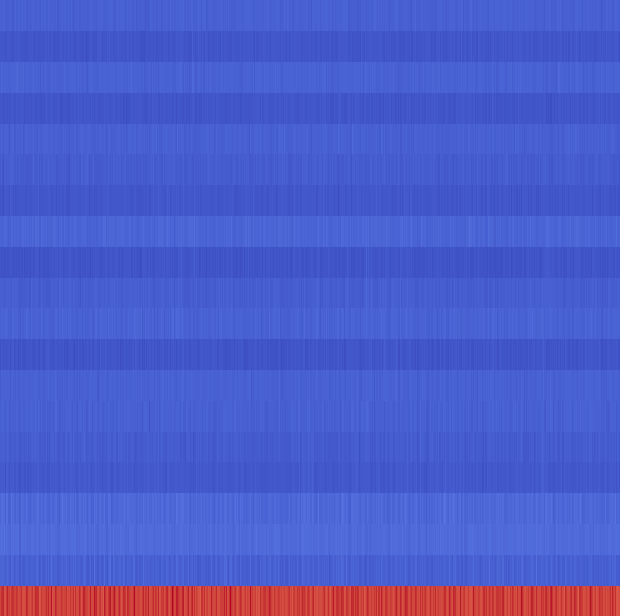
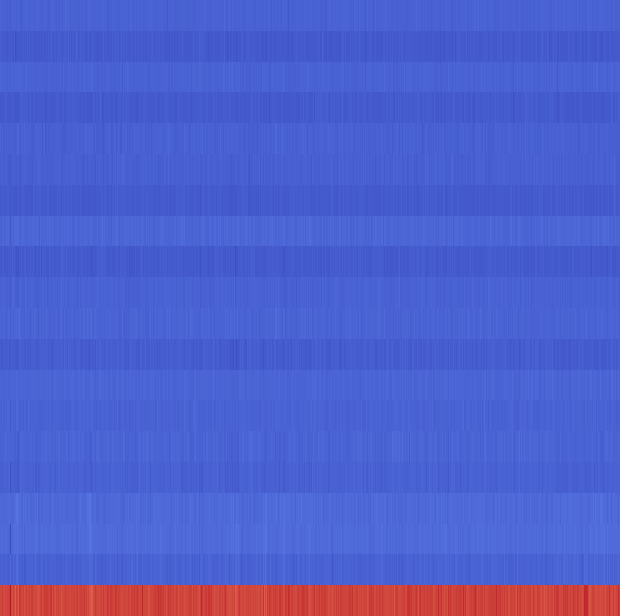
UPDATE: update wonder model to output image, ran Integration_test.py

diff --git a/Models.py b/Models.py
@@ -24,7 +24,7 @@ class ModelInstance:
 
         actor = Actor(self.action_space)
         critic = Critic(self.action_space)
-        wonder = Wonder(self.action_space)
+        wonder = Wonder(self.eyes_input_shape, self.ears_input_shape, self.action_space)
 
         actor.compile(optimizer=Adam(learning_rate=self.learning_rate, epsilon=1e-5))
         critic.compile(optimizer=Adam(learning_rate=self.learning_rate, epsilon=1e-5))
@@ -41,10 +41,10 @@ class ModelInstance:
 
         state = (np.array([eyes_time_sequence_observation]), np.array([ears_time_sequence_observation]))
 
-        action = actor(state)
+        dist = actor(state)
+        action = dist.sample()
         critic(state)
-        wonder_state = (state, action)
-        wonder(wonder_state)
+        wonder(state, action)
 
         return actor, critic, wonder
 
@@ -82,7 +82,6 @@ class Actor(keras.Model):
         self.actor_ear_conv.add(layers.TimeDistributed(layers.Conv2D(64, 5, activation="relu", padding="same")))
         self.actor_ear_conv.add(layers.TimeDistributed(layers.MaxPooling2D(pool_size=2, padding="same")))
         self.actor_ear_conv.add(layers.TimeDistributed(layers.Flatten()))
-        self.actor.add(layers.Dense(action_space, activation="tanh"))
 
         # LSTM
         self.actor_lstm1 = layers.LSTM(2, return_sequences=True)
@@ -164,6 +163,8 @@ class Critic(keras.Model):
 class Wonder(keras.Model):
     def __init__(self, eyes_input_shape, ears_input_shape, action_space):
         super(Wonder, self).__init__()
+        self.eyes_input_shape = eyes_input_shape
+        self.ears_input_shape = ears_input_shape
 
         # CONVOLUTION LAYERS
         self.wonder_eye_conv = keras.Sequential()
@@ -185,24 +186,34 @@ class Wonder(keras.Model):
         self.wonder_lstm2 = layers.LSTM(10, return_sequences=False)
 
         # DENSE
-        self.value_dense = keras.Sequential()
-        self.value_dense.add(layers.Dense(64, activation='relu'))
-        self.value_dense.add(layers.Dense(64, activation='relu'))
+        self.wonder_dense = keras.Sequential()
+        self.wonder_dense.add(layers.Dense(64, activation='relu'))
+        self.wonder_dense.add(layers.Dense(64, activation='relu'))
 
         # OUTPUT
-        self.value_output = layers.Dense(1)
+        number_of_eye_neurons = np.prod(list(eyes_input_shape))
+        number_of_ear_neurons = np.prod(list(ears_input_shape))
+        self.wonder_eyes_output = layers.Dense(number_of_eye_neurons, activation='relu')
+        self.wonder_ears_output = layers.Dense(number_of_ear_neurons, activation='relu')
 
     def __call__(self, observation, action):
+        def convert_output_to_image(arr, shape):
+            arr = np.interp(arr, (0, 1), (0, 255))
+            arr = arr.astype('uint8')
+            arr = arr.reshape(shape)
+            return arr
+
         eye_input = np.array(observation[0], dtype=np.float32)
         ear_input = np.array(observation[1], dtype=np.float32)
         action = np.array(action, dtype=np.float32)
 
         wonder_eye_conv, wonder_ear_conv = self.wonder_eye_conv(eye_input), self.wonder_ear_conv(ear_input)
         wonder_merged = layers.concatenate((wonder_eye_conv, wonder_ear_conv))
-        wonder_merged = layers.concatenate((wonder_merged, action))
         wonder_lstm1 = self.wonder_lstm1(wonder_merged)
         wonder_lstm2 = self.wonder_lstm2(wonder_lstm1)
-        wonder_dense = self.wonder_dense(wonder_lstm2)
-        wonder_output = self.wonder_output(wonder_dense)
+        wonder_merged = layers.concatenate((wonder_lstm2, action))
+        wonder_dense = self.wonder_dense(wonder_merged)
+        wonder_eye_output = convert_output_to_image(self.wonder_eyes_output(wonder_dense), self.eyes_input_shape)
+        wonder_ear_output = convert_output_to_image(self.wonder_ears_output(wonder_dense), self.ears_input_shape)
 
-        return wonder_output
+        return wonder_eye_output, wonder_ear_output

diff --git a/Brain.py b/Brain.py
@@ -8,7 +8,7 @@ import tensorflow as tf
 class Brain:
     def __init__(self,
                  eyes_input_shape=(256, 256, 3),  # update to actual eye shape no resize
-                 ears_input_shape=(20, 17),  # update to actual ear shape
+                 ears_input_shape=(308, 310, 3),  # update to actual ear shape
                  lstm_timestep=10,
                  learning_rate=0.003,
                  action_space=10,
@@ -24,11 +24,11 @@ class Brain:
         self.loss_clip_parameter = 0.2
         self.entropy_coefficient = 0.001
         self.value_coefficient = 0.5
-        self.minibatch_size = 512
+        self.minibatch_size = 16
         self.learning_rate = learning_rate
         self.epsilon = 1e-5
 
-        self.model = Model()
+        self.model = Model(eyes_input_shape, ears_input_shape, action_space, learning_rate, self.epsilon, lstm_timestep)
 
     def train_model(self):
         """PPO LOSS FUNCTION"""
@@ -111,10 +111,10 @@ class Brain:
         UPDATE THE MODEL FIRST THOUGH
         SO THAT THE CURRENT MODEL BEING USED TO PREDICT IS THE LATEST COPY
         """
-        if len(self.memory_being_filled.memory["state"]) >= self.minibatch_size:  # do by batch
+        if len(self.memory_being_filled.memory["eyes"]) >= self.minibatch_size:  # do by batch
             # if self.memory_being_filled.memory["state"]:
             self.model.update_model()
-            print("training", len(self.memory_being_filled.memory["state"]))
+            print("training", len(self.memory_being_filled.memory["eyes"]))
             self.memory_being_trained.memory = self.memory_being_filled.copy()
             self.memory_being_filled.clear()
             self.train_model()

diff --git a/Integration_test.py b/Integration_test.py
@@ -1,35 +1,36 @@
 import Input
 import Output
-import brain_tf
+import Brain
 from threading import Thread
 import time
 
-lstm_cnt = 5
+lstm_cnt = 3
+eyes_shape = (200, 200)
+ears_shape = (200, 200)
+outputs = Output.Output()
+inputs = Input.Input(eyes_shape, ears_shape, lstm_cnt)
 
-output = Output.Output()
-input = Input.Input(lstm_cnt)
+brain = Brain.Brain(lstm_timestep=lstm_cnt, eyes_input_shape=inputs.shape()[0], ears_input_shape=inputs.shape()[1])
 
-brain = brain_tf.Brain(lstm_timestep=lstm_cnt, eyes_input_shape=input.shape()[0], ears_input_shape=input.shape()[1])
 
 # initialize
-input_to_predict = input.collect_input()
+input_to_predict = inputs.collect_input()
 action = brain.predict(input_to_predict)
-output.act(action)
+outputs.act(action)
 
 # do this for ever
 while True:
     begin = time.time()
     # print("new training")
     # start a new thread for each new training session
-    training_thread = Thread(target=brain.update_model)
-    training_thread.start()
-    # while training is happening in the background: act on environment
-    while training_thread.is_alive():
-        input_to_predict = input.collect_input()
-        action = brain.predict(input_to_predict)
-        output.act(action)
-    # once training is done join and start new thread
-    training_thread.join()
+    input_to_predict = inputs.collect_input()
+    action = brain.predict(input_to_predict)
+    outputs.act(action)
+    print(action)
+    print("training")
+
+    brain.update_model()
+
     end = time.time()
     duration = end - begin
-    # print("time taken :", duration, " seconds")
+    print("time taken :", duration, " seconds")

diff --git a/scratch_sheet.py b/scratch_sheet.py
@@ -35,18 +35,34 @@ import gym
 # pred = wonderer((state, action))
 # print(pred)
 
-def shuffle(unit):
-    idx = [i for i in range(len(unit[0]))]
-    random.shuffle(idx)
+# def shuffle(unit):
+#     idx = [i for i in range(len(unit[0]))]
+#     random.shuffle(idx)
+#
+#     new_unit = [[] for i in range(len(unit))]
+#     for i in range(len(unit[0])):
+#         for j in range(len(unit)):
+#             new_unit[j].append(unit[j][idx[i]])
+#     return (new_unit)
+#
+# unit = [[1, 2, 3, 4], [1, 2, 3, 4], [1, 2,3, 4]]
+# shuffle(unit)
 
-    new_unit = [[] for i in range(len(unit))]
-    for i in range(len(unit[0])):
-        for j in range(len(unit)):
-            new_unit[j].append(unit[j][idx[i]])
-    return (new_unit)
+from PIL import Image
+import numpy as np
 
-unit = [[1, 2, 3, 4], [1, 2, 3, 4], [1, 2,3, 4]]
-shuffle(unit)
+eyes_input_shape = (256, 256, 3)
+number_of_eye_neurons = np.prod(list(eyes_input_shape))
+arr = np.random.random(size=(number_of_eye_neurons))
+arr = np.interp(arr, (0, 1), (0 , 255))
+arr = arr.astype('uint8')
+arr = arr.reshape(eyes_input_shape)
+print(arr)
+img = Image.fromarray(arr)
+print(arr.shape)
+print(img)
+img.show()
 
-
-
+img = img.resize((200, 200))
+print("newwww")
+img.show()

diff --git a/Input.py b/Input.py
@@ -3,10 +3,12 @@ import Hear
 import numpy as np
 
 class Input():
-    def __init__(self, lstm_cnt):
+    def __init__(self, eyes_shape, ears_shape, lstm_cnt):
         self.eyes = cv2.VideoCapture(0)
         self.ears = Hear.Hear()
         self.ears.start_listening()
+        self.eyes_shape = eyes_shape
+        self.ears_shape = ears_shape
         self.lstm_cnt = lstm_cnt
         self.eyes_time_sequence_observation = []
         self.ears_time_sequence_observation = []
@@ -14,6 +16,9 @@ class Input():
     def observe(self):
         ret, image = self.eyes.read()
         audio = self.ears.read()
+
+        image = cv2.resize(image, self.eyes_shape)
+        audio = cv2.resize(audio, self.ears_shape)
         return [image, audio]
 
     def shape(self):

diff --git a/Memory.py b/Memory.py
@@ -49,9 +49,7 @@ class Memory:
         rewards = self.memory["discounted_reward"][start_index:end_index].copy()
         values = self.memory["value"][start_index:end_index].copy()
         disc_r = self.discount_rewards(rewards)
-        advantages = []
-        for i in range(len(disc_r)):
-            advantages.append(disc_r[i] - values[i][0])
+        advantages = np.subtract(disc_r, values)
 
         unit = self.memory["eyes"][start_index:end_index], \
                self.memory["ears"][start_index:end_index], \

diff --git a/test_input.py b/test_input.py
@@ -1,0 +1,17 @@
+import Input
+from PIL import Image
+import numpy as np
+
+lstm_cnt = 3
+eyes_shape = (200, 200)
+ears_shape = (200, 200)
+
+inputs = Input.Input(eyes_shape, ears_shape, lstm_cnt)
+
+image, audio = inputs.observe()
+
+img = Image.fromarray(image)
+img.show()
+
+aud = Image.fromarray(audio)
+aud.show()

diff --git a/test_audio.py b/test_audio.py
@@ -7,5 +7,6 @@ ear.start_listening()
 for i in range(100):
     ear.show_current_MFCC()
     ear.save_current_MFCC()
+    print(ear.current_mfcc_image.shape)
 
 ear.stop_listening()
